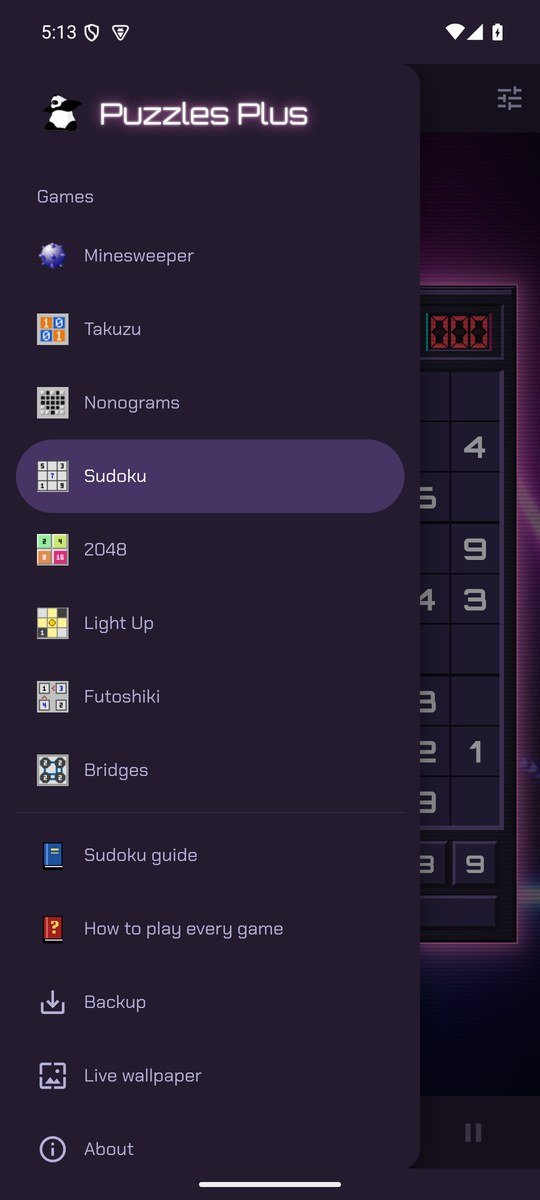
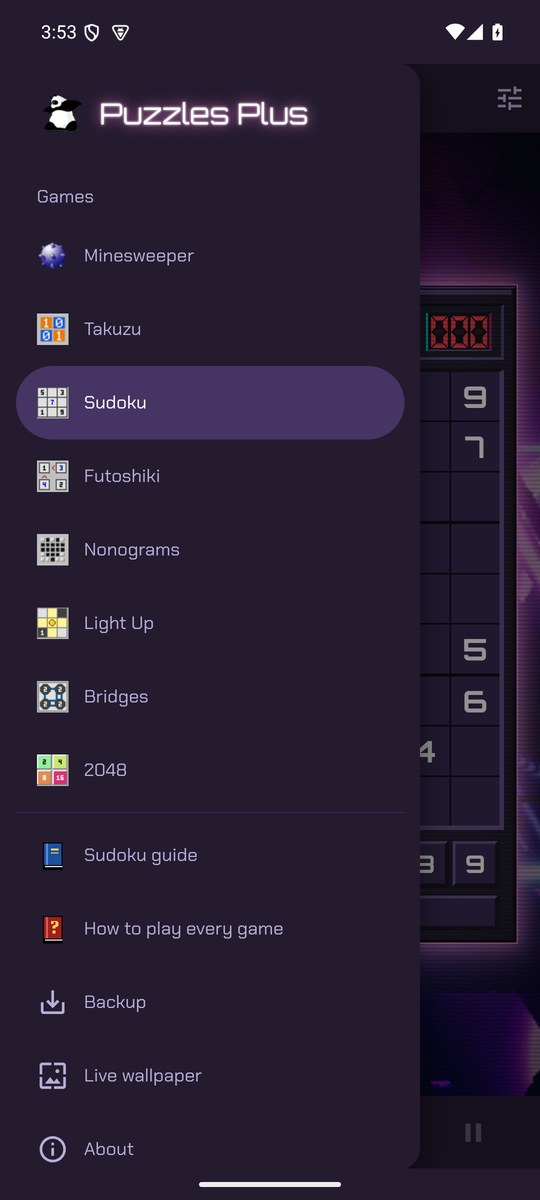
README pictures retaken on the emulator with the 2.1.0 app (new Synthwave picture, alphabetical themes, new game order, the frame rate setting); the shot script waits a minute for matrix and synthwave

diff --git a/tools/readme-shots.py b/tools/readme-shots.py
@@ -49,6 +49,9 @@ def ui(text):
 def go(pg, path, store):
     #a page with a fresh game: a game kept from before comes back paused, so it is resumed
     pg = d.goto(pg, path, store)
+    #matrix and synthwave are only worth a picture once they have run for a minute
+    if store.get('theme') in ('synthwave', 'matrix'):
+        time.sleep(60)
     try:
         pg.hit('[title="Resume (P)"]')
     except RuntimeError:
@@ -133,7 +136,8 @@ def wallpaper(pg):
     where = ui('Synthwave')
     if where:
         d.tap(*where)
-    time.sleep(4)
+    #synthwave has run for a minute before the picture
+    time.sleep(60)
     save('wallpaper-settings')
     d.back()
     d.adb('shell', 'am', 'start', '-a', 'android.service.wallpaper.CHANGE_LIVE_WALLPAPER',
